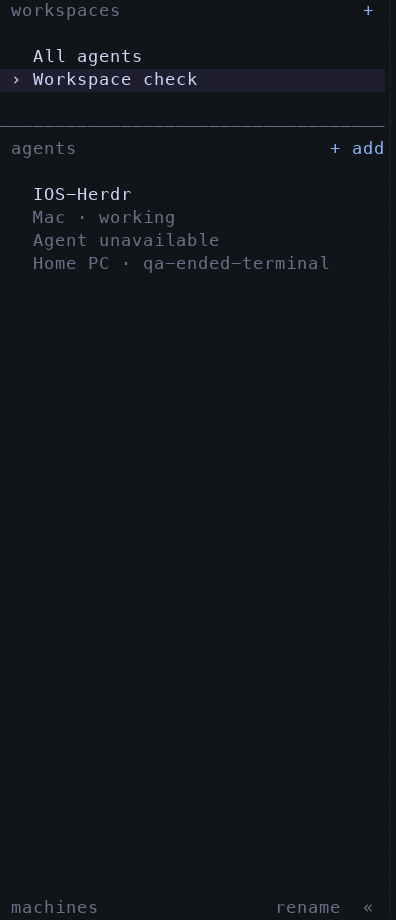
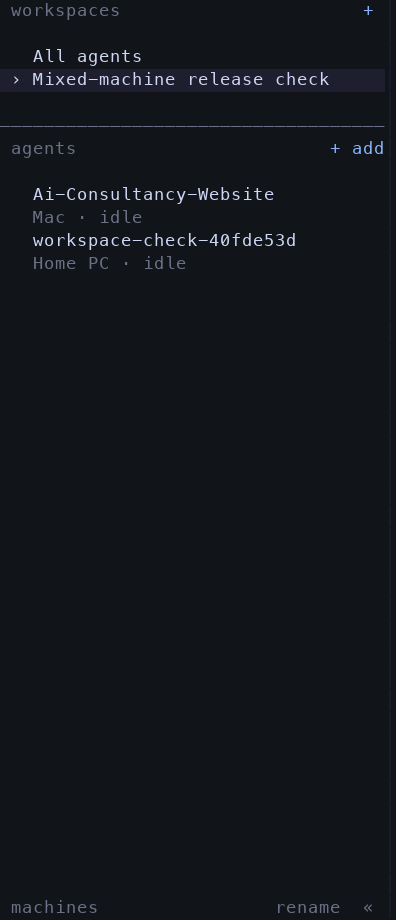
docs: record shared workspace release and deployment

diff --git a/preview/index.html b/preview/index.html
@@ -3,11 +3,11 @@
 <style>
 :root{font-family:-apple-system,BlinkMacSystemFont,"Segoe UI",sans-serif;color:#f1f5f2;background:#111413}*{box-sizing:border-box}body{margin:0}main{max-width:1280px;margin:auto;padding:40px 28px 60px}header{max-width:860px;margin-bottom:42px}.brand{color:#b5e4c9;font-size:24px;font-weight:750}h1{font-size:clamp(32px,5vw,52px);line-height:1.08;letter-spacing:-.04em;margin:20px 0 18px}p{color:#aab5ae;line-height:1.6}a{color:#b5e4c9;text-underline-offset:4px}a:focus-visible{outline:3px solid #b5e4c9;outline-offset:5px}.actions{display:flex;flex-wrap:wrap;gap:14px;margin-top:24px}.button{padding:14px 18px;border:1px solid #49554d;border-radius:10px;text-decoration:none}.primary{background:#b5e4c9;color:#111413;border-color:#b5e4c9;font-weight:650}.status{font-size:14px;color:#f5c15b}.gallery{display:grid;grid-template-columns:repeat(3,minmax(0,1fr));gap:36px 30px}.gallery figure{margin:0;min-width:0}.gallery h2{font-size:20px;margin:0 0 8px}.gallery p{font-size:14px;min-height:45px;margin:0 0 18px}.image{display:block;line-height:0;border-radius:22px;overflow:hidden;border:1px solid #303a33}.image img{display:block;width:100%;height:auto}footer{margin-top:46px;border-top:1px solid #303a33;padding-top:20px;font-size:14px}@media(max-width:800px){.gallery{grid-template-columns:repeat(2,minmax(0,1fr))}}@media(max-width:520px){main{padding:28px 20px 40px}.gallery{grid-template-columns:1fr;max-width:390px;margin:auto}.gallery p{min-height:0}.actions{flex-direction:column;align-items:flex-start}}
 </style></head><body><main>
-<header><div class="brand">herdr</div><h1>Your workspaces.<br>Across your machines.</h1><p>Create a workspace and bring Mac and Home PC agents into one compact list. These are actual iPhone simulator captures with labeled sample activity, plus the desktop candidate’s terminal sidebar.</p><p class="status">Shared workspaces · Build 0.1.0 (3) candidate · Build 2 remains in TestFlight</p><div class="actions"><a class="button primary" href="https://marks-macbook-air.tail79ccb5.ts.net:8443/connect">Pair your iPhone</a><a class="button" href="https://github.com/SKS-MStow/IOS-Herdr/tree/codex/shared-workspace-groups">iPhone source</a><a class="button" href="https://github.com/SKS-MStow/Herdr-Shared/tree/codex/shared-workspace-groups">Desktop source (private)</a></div></header><section class="gallery" aria-label="Shared workspace screens">
+<header><div class="brand">herdr</div><h1>Your workspaces.<br>Across your machines.</h1><p>Create a workspace and bring Mac and Home PC agents into one compact list. These are actual iPhone simulator captures with labeled sample activity, plus the desktop terminal sidebar.</p><p class="status">Shared workspaces · Build 0.1.0 (3) available in TestFlight</p><div class="actions"><a class="button primary" href="https://marks-macbook-air.tail79ccb5.ts.net:8443/connect">Pair your iPhone</a><a class="button" href="https://github.com/SKS-MStow/IOS-Herdr/tree/main">iPhone source</a><a class="button" href="https://github.com/SKS-MStow/Herdr-Shared/tree/main">Desktop source (private)</a></div></header><section class="gallery" aria-label="Shared workspace screens">
 <figure><figcaption><h2>Your workspaces</h2><p>Named groups, All agents and Unassigned.</p></figcaption><a class="image" href="native/workspaces.png" aria-label="Open Your workspaces full size"><img src="native/workspaces.png" alt="Herdr: Your workspaces." loading="lazy" width="1206" height="2622"></a></figure>
 <figure><figcaption><h2>Mac and Home PC together</h2><p>Compact agent rows retain their machine and provider context.</p></figcaption><a class="image" href="native/shared-workspace.png" aria-label="Open Mac and Home PC together full size"><img src="native/shared-workspace.png" alt="Herdr: Mac and Home PC together." loading="lazy" width="1206" height="2622"></a></figure>
 <figure><figcaption><h2>Choose your agents</h2><p>Add an agent to one or more workspaces without restarting it.</p></figcaption><a class="image" href="native/workspace-members.png" aria-label="Open Choose your agents full size"><img src="native/workspace-members.png" alt="Herdr: Choose your agents." loading="lazy" width="1206" height="2622"></a></figure>
-<figure><figcaption><h2>Desktop Herdr</h2><p>Captured QA workspace with a live Mac agent and a deliberately unavailable Home PC reference. Terminal contents are omitted.</p></figcaption><a class="image" href="native/desktop-workspace.png" aria-label="Open Desktop Herdr full size"><img src="native/desktop-workspace.png" alt="Herdr: Desktop Herdr." loading="lazy" width="396" height="920"></a></figure>
+<figure><figcaption><h2>Desktop Herdr</h2><p>Captured QA workspace with live Mac and Home PC agents. The Windows terminal was opened and verified; terminal contents are omitted.</p></figcaption><a class="image" href="native/desktop-workspace.png" aria-label="Open Desktop Herdr full size"><img src="native/desktop-workspace.png" alt="Herdr: Desktop Herdr." loading="lazy" width="396" height="920"></a></figure>
 <figure><figcaption><h2>The compact agent list</h2><p>The full agent list remains one tap away.</p></figcaption><a class="image" href="native/agents.png" aria-label="Open The compact agent list full size"><img src="native/agents.png" alt="Herdr: The compact agent list." loading="lazy" width="1206" height="2622"></a></figure>
 <figure><figcaption><h2>Larger text</h2><p>Native accessibility text wraps while the Demo title stays visible.</p></figcaption><a class="image" href="native/workspace-accessibility.png" aria-label="Open Larger text full size"><img src="native/workspace-accessibility.png" alt="Herdr: Larger text." loading="lazy" width="1206" height="2622"></a></figure>
-</section><footer><p>This is a review gallery for the workspace update. Build 3 is prepared for release; it has not yet replaced build 2 in TestFlight or the installed desktop binary. The PR release path is awaiting one-time initialization of the repositories’ shared branches.</p><p>Groups organize agents; files, sign-ins and work stay on their execution machines. Removing a group leaves its agents running. The work laptop remains pending.</p><p>Private Tailscale link · Keep the Mac awake.</p></footer></main></body></html>
+</section><footer><p>Build 0.1.0 (3) is available in Mark’s internal TestFlight group. The desktop controller and iPhone bridge are updated. Update the app in TestFlight and reopen herdr-multi for the new workspace sidebar. Existing pairing carries over.</p><p>Groups organize agents; files, sign-ins and work stay on their execution machines. Removing a group leaves its agents running. The work laptop remains pending.</p><p>Private Tailscale link · Keep the Mac awake.</p></footer></main></body></html>

diff --git a/README.md b/README.md
@@ -18,7 +18,7 @@ HTTPS, without Funnel or public internet exposure.
 
 ## Using the app
 
-1. Install or update to **Herdr Shared 0.1.0 (2)** in TestFlight. If already paired,
+1. Install or update to **Herdr Shared 0.1.0 (3)** in TestFlight. If already paired,
    your connection and notification settings carry over.
 2. On the iPhone, open the pairing page and create a one-use code. Tap **Open
    Herdr and connect**, then **Connect to Mac**. Codes expire after ten minutes.
@@ -62,19 +62,21 @@ See [development and release](docs/development.md), [controller operations](docs
 
 ## Current release state
 
-Version 0.1.0 (2) is available for internal TestFlight testing with a compact
-agent list, small symbols, inline status and full-row navigation. Apple reports
-`VALID` and `IN_BETA_TESTING`; the Mark group includes this build and the account
-holder is its only tester. Build 1 was installed on the iPhone, paired and
-registered for production push; Mark confirmed that its test alert arrived.
-Installation of build 2 on the phone has not yet been confirmed. See
-[the verification record](docs/release-status.json) for evidence and timestamps.
+Version 0.1.0 (3) is available in the Mark internal TestFlight group. Apple
+reports `VALID` and `IN_BETA_TESTING`, and the group contains only the account
+holder. The matching desktop controller and iPhone bridge are deployed. Existing
+phone pairing and push registration were preserved; the running agent servers
+were not restarted. Physical installation of build 3 remains unconfirmed.
 
+A live check grouped an existing Mac agent with a temporary Home PC Claude
+agent, opened the matching Windows terminal, and verified its reply-only output.
+The temporary group, worker workspace and test pairing were removed. See
+[the verification record](docs/release-status.json).
 
-## Shared workspace candidate
+## Shared workspaces
 
 Build 3 adds the same named, mixed-machine groups to desktop Herdr and the
 phone. Desktop source is in [Herdr-Shared](https://github.com/SKS-MStow/Herdr-Shared),
 a separate private fork. See [the workspace contract](docs/shared-workspaces.md).
-Build 2 remains the published TestFlight release until the candidate's release
-record confirms otherwise.
+Reopen `herdr-multi` to use the new desktop sidebar. Existing official Herdr
+installs and the Home PC worker are preserved.

diff --git a/docs/development.md b/docs/development.md
@@ -30,7 +30,7 @@ Do not export pairing-form screenshots containing a code.
 - Team: `V8W579ZBVB`
 - SKU: `herdr-ios-mark`
 - Primary language: English (Australia)
-- Version: 0.1.0; build: 2
+- Version: 0.1.0; build: 3
 - Push Notifications enabled on the registered bundle identifier
 
 App Store Connect app ID: `6809146693`. The app record, developer bundle ID
@@ -103,5 +103,14 @@ databases belong in Git. The build 2 baseline is committed on
 `codex/iphone-mockup-review`. Shared workspace changes use
 `codex/shared-workspace-groups`. Release through a PR to `staging`, verify the
 candidate, then promote by PR to `main`. Both repositories began without shared
-branches; their baseline initialization requires the one-time exception already
-requested from Mark before that PR flow can start.
+branches. Mark approved the one-time baseline initialization on 7 September 2026;
+subsequent changes follow the staging and main PR workflow.
+
+## Shared workspace release
+
+Build 0.1.0 (3) is available in Mark's internal TestFlight group. The desktop
+controller and bridge are deployed from their main release branches, following
+staging and production PRs. Apple processing, group membership, test notes,
+signing and live controller verification are recorded in `releases/0.1.0-3.json`.
+Phone pairing and production push registration carry over. Physical installation
+of build 3 has not yet been confirmed.

diff --git a/design-qa.md b/design-qa.md
@@ -30,12 +30,17 @@ historical and does not establish physical-device acceptance of build 3.
 Live desktop QA created a temporary group, added/opened the Mac terminal,
 removed an unavailable member and collapsed/expanded the sidebar. A separate
 instance of the iPhone bridge saw the same group and its cross-machine members.
-Mac and Home PC were online; Home PC had no running agents at verification time.
-This establishes shared metadata and desktop navigation, not a new live Windows
-agent-start result.
+The first capture used an unavailable Home PC reference. On 7 September, a
+temporary Home PC Claude agent returned a reply-only prompt. A group containing
+that live Windows agent and an existing Mac agent appeared in the desktop and
+bridge. Selecting the Windows member opened its matching terminal and displayed
+the verified reply. The temporary group, worker execution workspace and bridge
+pairing were removed. The current desktop capture records this live mixed-machine
+check; existing agent terminal contents are omitted.
 
-**Visual disposition: ship.** This record does not claim
-build 3 publication, TestFlight availability or installation.
+**Visual disposition: ship.** Build 3 publication and TestFlight availability
+are verified separately in [the release record](docs/releases/0.1.0-3.json).
+Physical installation of build 3 remains unconfirmed.
 
 ## Build 2: compact agent list
 
